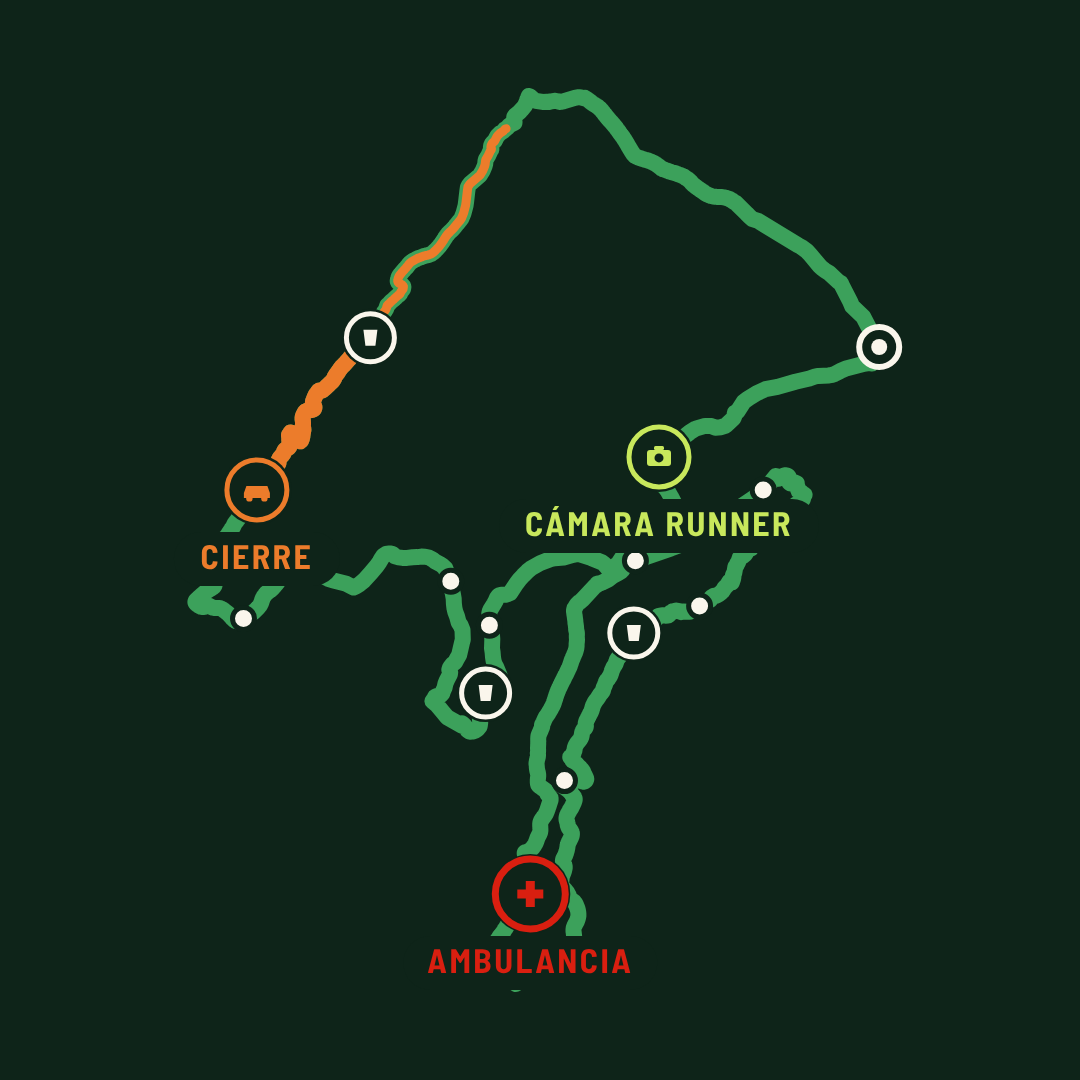
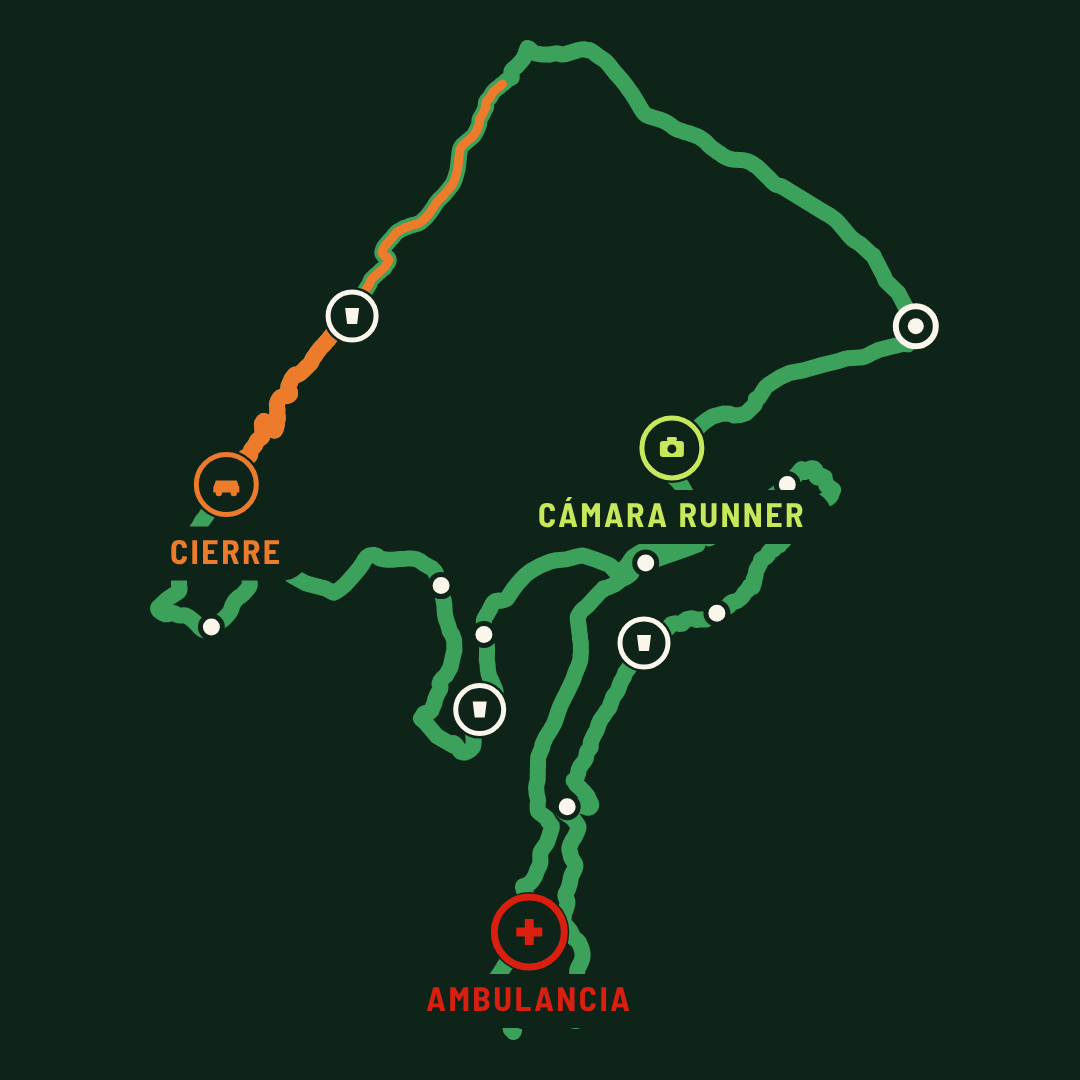
feat(social): el avance va al ritmo real grabado en la traza
La traza de la Picota son 3624 posiciones con su hora, una por segundo: lo
que emite la app. Usandolas, el 50 % de la simulacion es donde el corredor
iba por la mitad de su carrera y no por la mitad de los kilometros, asi que
en las subidas se arrastra y en las bajadas se suelta, como paso de verdad.

Si la traza no trae horas avisa y vuelve a ritmo constante.

Claude-Session: https://claude.ai/code/session_01UGMKEj7noQJpvPzyxwB7ry

Changed region(s): [[0.1222, 0.0306, 0.8861, 0.9778]]

diff --git a/plantillas/README.md b/plantillas/README.md
@@ -252,6 +252,23 @@ recorrido mucho más ancho que alto sale como una tira y no se lee: el GT40
 de la Gurriana mide 0,16° de ancho por 0,03° de alto y no vale para esto.
 Un circular compacto como la Picota es lo que mejor encaja.
 
+### Posiciones reales, no inventadas
+
+Si la traza trae la hora de cada punto —una grabada con la app trae **una
+posición por segundo**— el avance va a su **ritmo real**: el 50 % de la
+simulación es donde el corredor iba por la mitad de su carrera, no por la
+mitad de los kilómetros. En las subidas el marcador se arrastra y en las
+bajadas se suelta, como pasó de verdad.
+
+La herramienta lo dice al arrancar:
+
+```
+  tiempo real: 3624 posiciones grabadas, el avance va a su ritmo
+```
+
+Si la traza no trae horas —las rutas dibujadas y exportadas no suelen
+traerlas— avisa y vuelve al ritmo constante. `--sin-tiempo` lo fuerza.
+
 ### La simulación
 
 Con `--video` el mapa deja de ser una foto: la escoba recorre la traza, el
